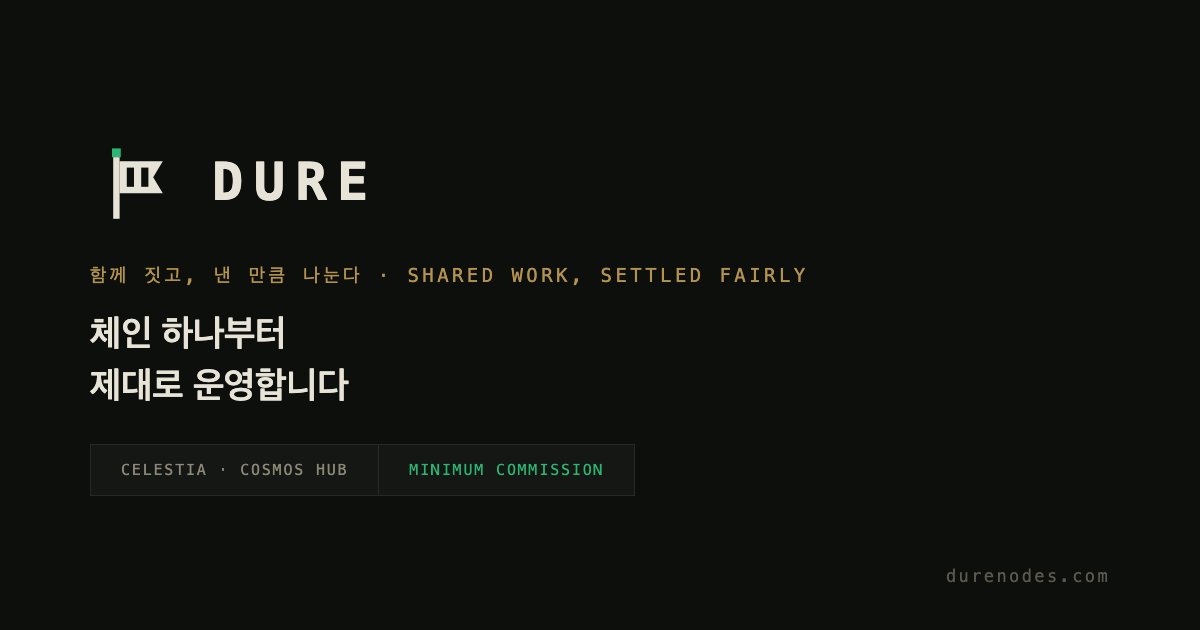
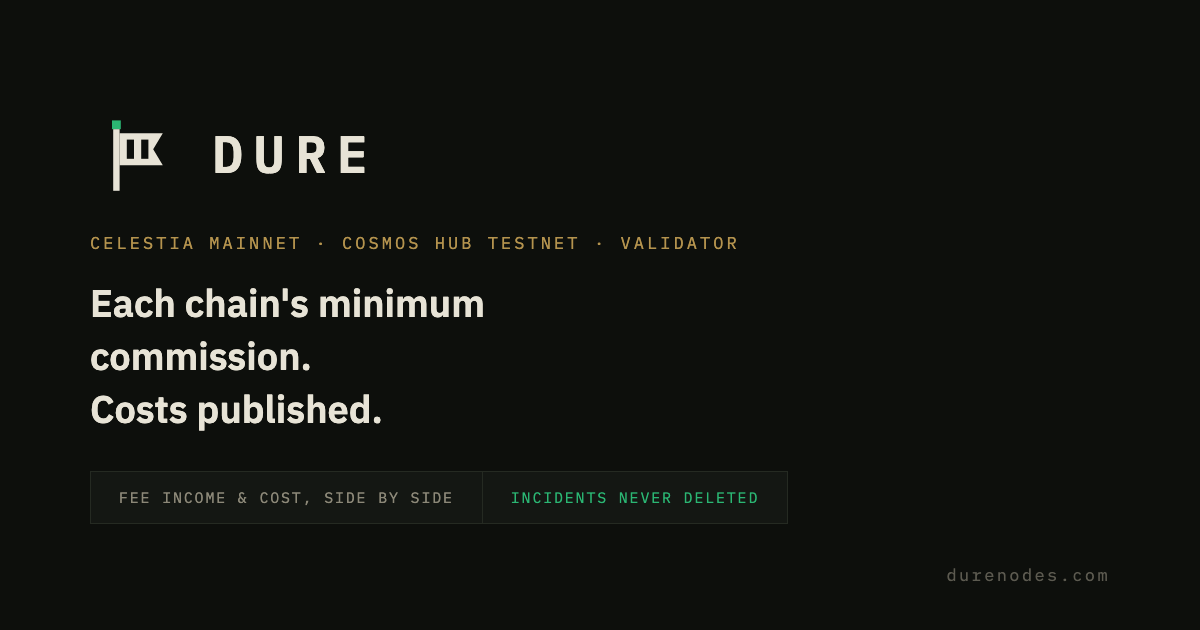
Regenerate the share card without the slogan
The OG image still carried the tagline that was removed from the pages. It now
leads with what the site actually claims — minimum commission, published costs
— which is also what someone sharing the link would want to convey.

diff --git a/README.md b/README.md
@@ -46,7 +46,3 @@ Every number on this page comes from on-chain state and is meant to be verifiabl
 
 Nothing is filled in with plausible-looking placeholder data. Where we don't have a figure
 yet, the page says so.
-
----
-
-함께 짓고, 낸 만큼 나눈다 · Shared work, settled fairly
